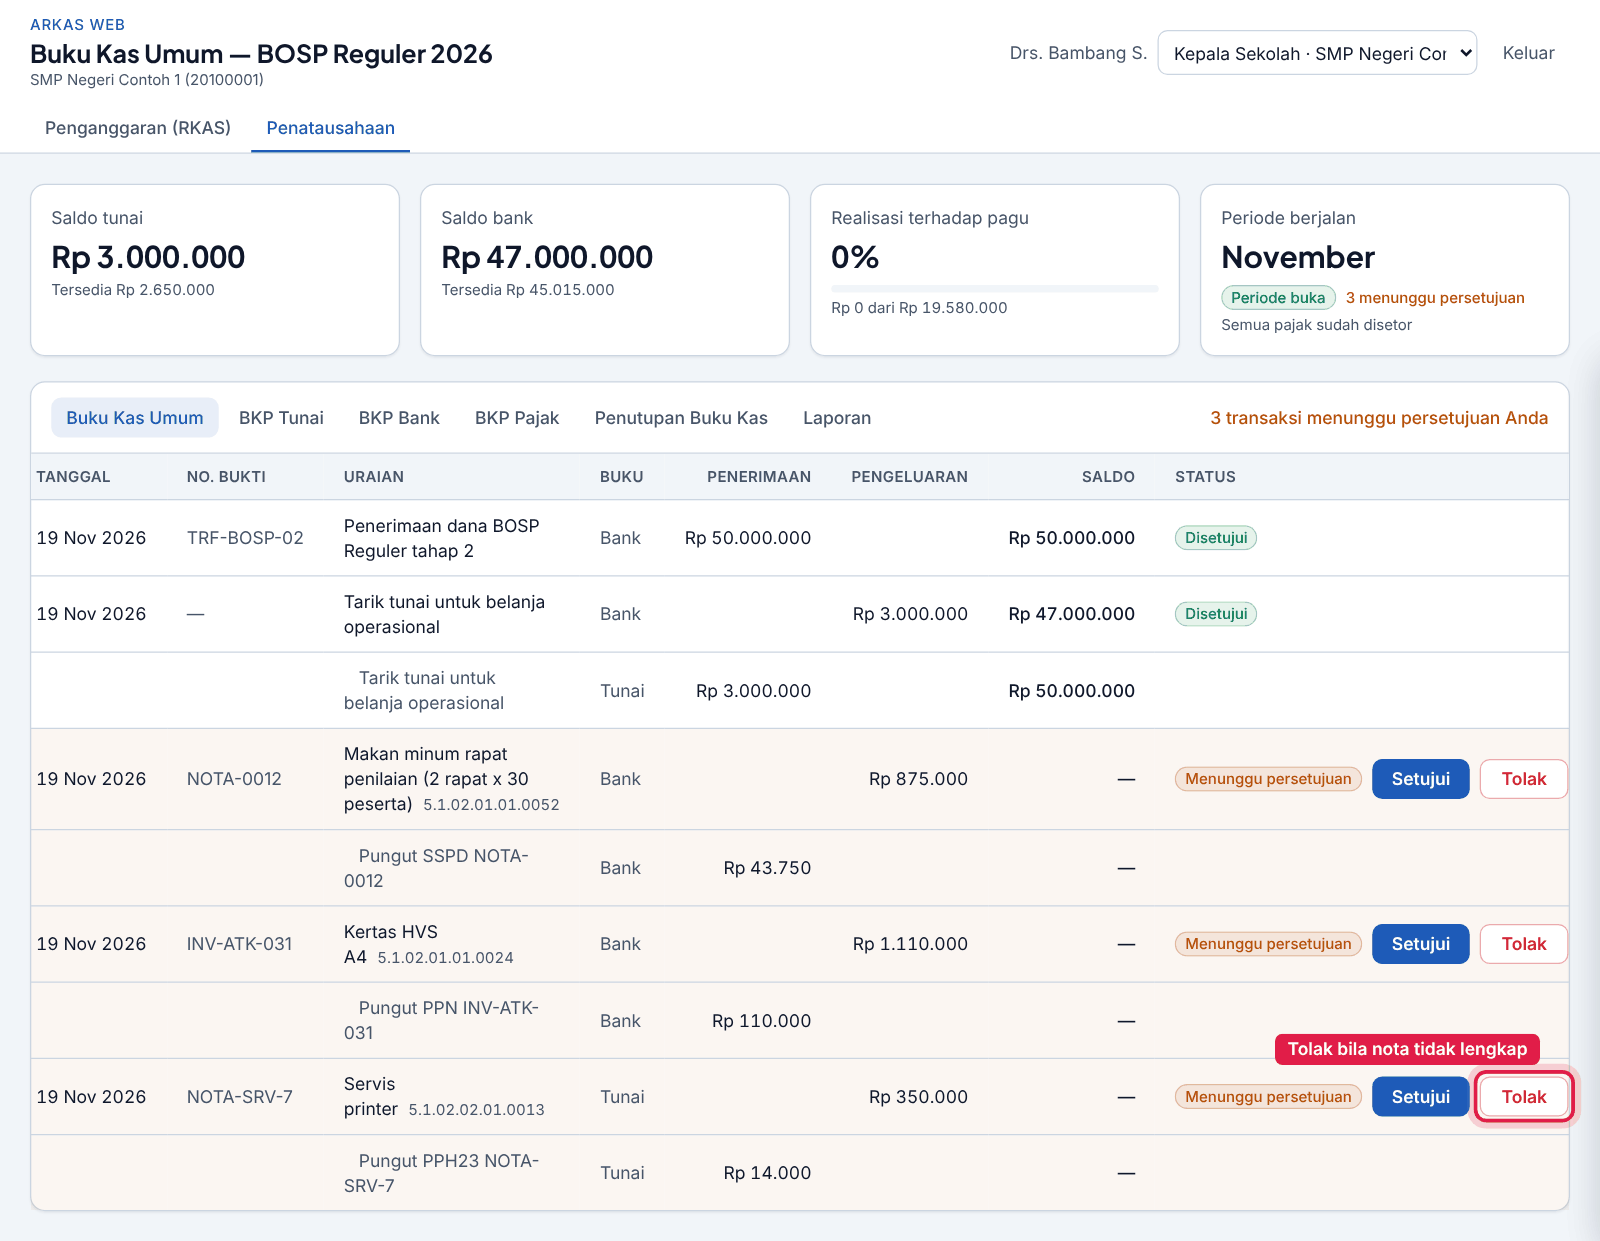
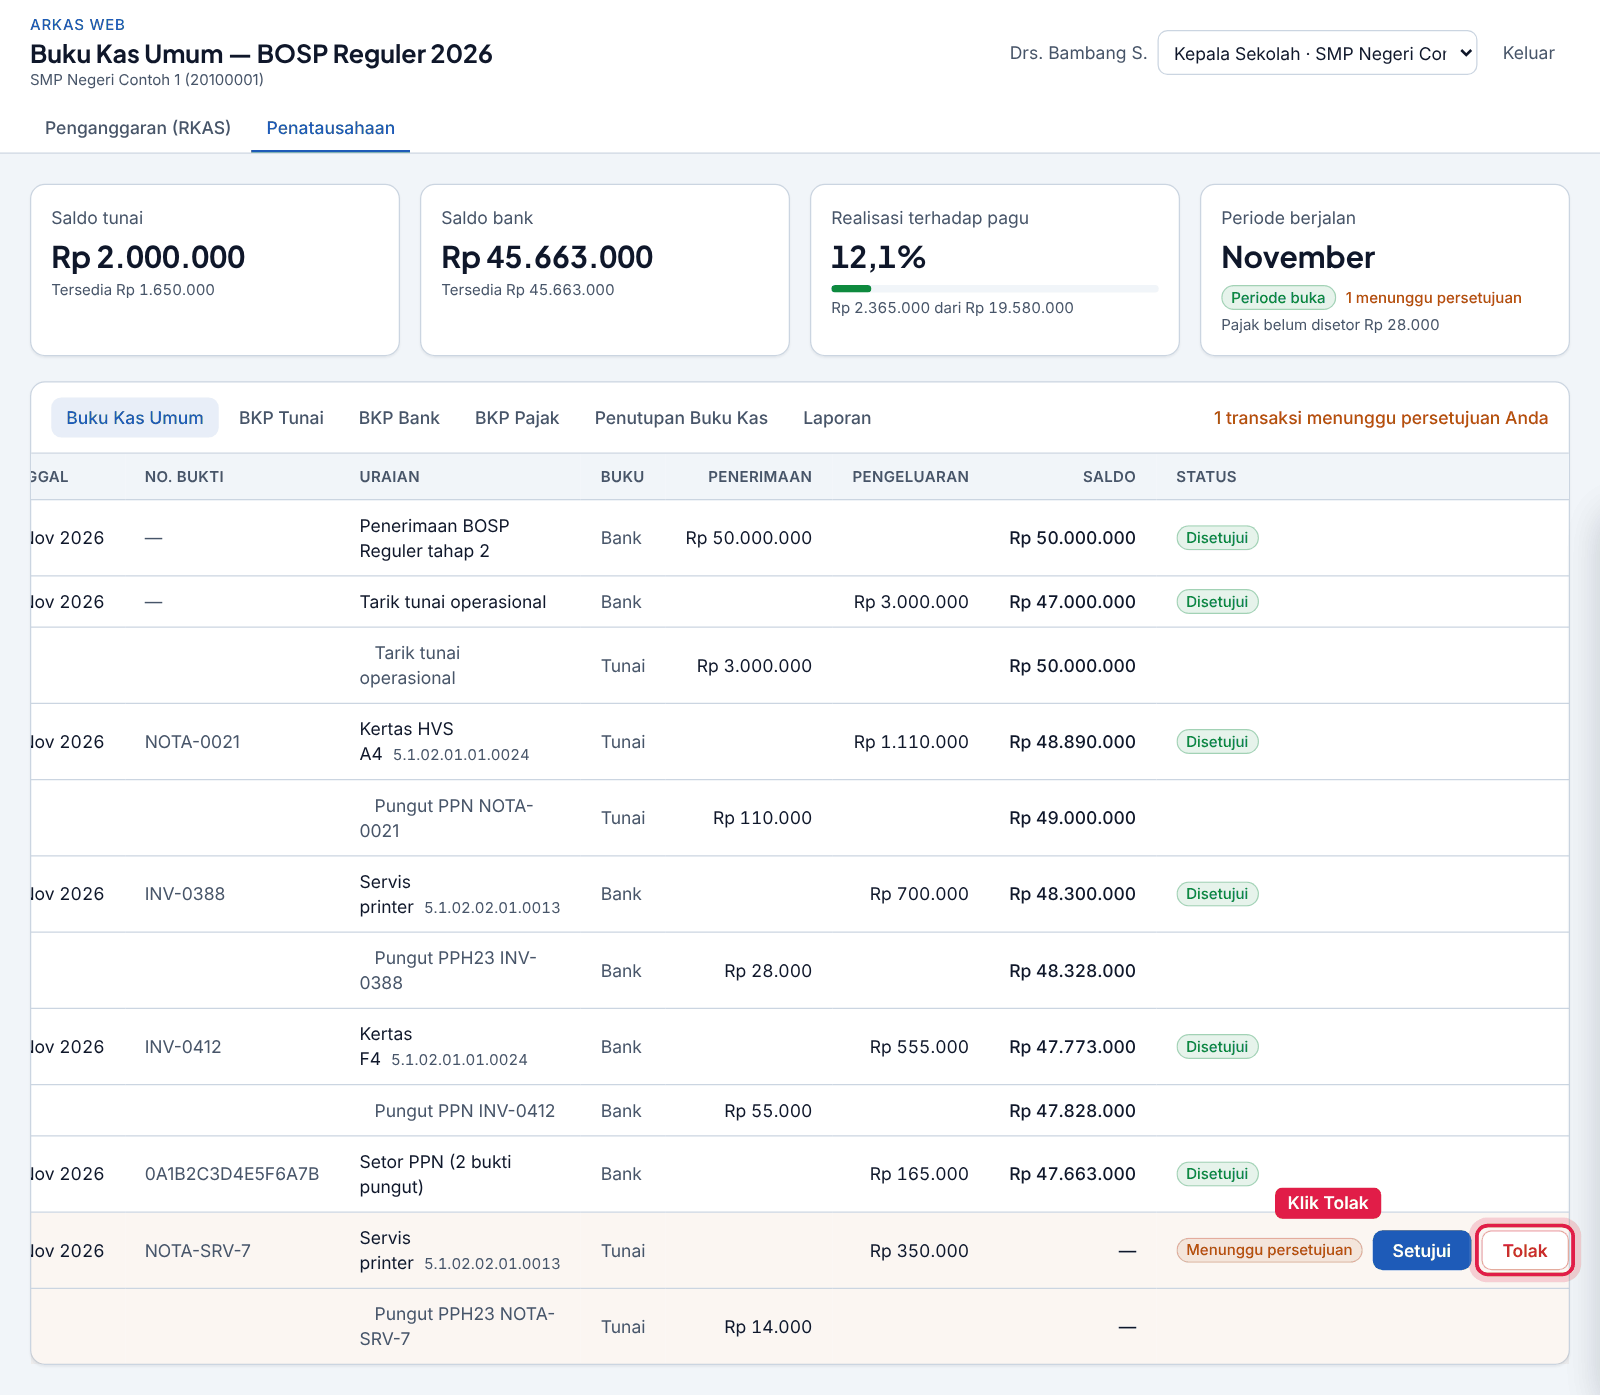
Bendahara: daftar transaksi ditolak beserta alasan dan tombol Catat ulang
- GET /api/v1/sekolah/{npsn}/bku/ditolak: transaksi DITOLAK pada periode
  yang masih BUKA (terbaru dulu, maks. 50) beserta alasan penolakan
- Web: panel merah di atas Buku Kas Umum untuk Bendahara (dengan tombol
  Catat ulang yang membuka formulir sesuai jenis) dan Kepala Sekolah (lihat saja)
- Uji e2e: penolakan tampil di daftar ditolak dan tidak masuk BKU
- Tangkapan layar tutorial diperbarui (k06, k06b, b12, b12b)

Claude-Session: https://claude.ai/code/session_01GnPCVBXFT96Yhb8TEvAGwA

diff --git a/arkas-web/apps/web/components/panel-ditolak.tsx b/arkas-web/apps/web/components/panel-ditolak.tsx
@@ -1,0 +1,41 @@
+'use client';
+import type { TransaksiDitolakDto } from '@arkas/kontrak';
+import { rupiah, tanggal } from '@/lib/format';
+import { Tombol } from './ui';
+
+const NAMA: Record<TransaksiDitolakDto['jenis'], string> = {
+  PENERIMAAN: 'Penerimaan', TARIK_TUNAI: 'Tarik tunai', SETOR_TUNAI: 'Setor tunai', BELANJA: 'Belanja', SETOR_PAJAK: 'Setor pajak',
+};
+
+/**
+ * Transaksi yang ditolak Kepala Sekolah (periode masih buka). Tidak masuk BKU dan tidak menggerakkan saldo;
+ * Bendahara membaca alasannya lalu mencatat ulang dengan data yang benar.
+ */
+export function PanelDitolak({ data, onCatatUlang, untukBendahara = true }: { data: TransaksiDitolakDto[]; onCatatUlang?: (t: TransaksiDitolakDto) => void; untukBendahara?: boolean }) {
+  if (!data.length) return null;
+  return (
+    <section role="alert" aria-label="Transaksi ditolak" className="rounded-card border border-danger/40 bg-danger/5">
+      <div className="border-b border-danger/20 px-4 py-3">
+        <p className="text-sm font-semibold text-danger">{data.length} transaksi ditolak Kepala Sekolah</p>
+        <p className="text-sm text-muted">Transaksi ini tidak masuk Buku Kas Umum dan tidak mengubah saldo. {untukBendahara ? 'Baca alasannya, perbaiki, lalu catat ulang.' : 'Bendahara melihat alasan yang sama untuk diperbaiki dan dicatat ulang.'}</p>
+      </div>
+      <ul className="divide-y divide-danger/15">
+        {data.map((t) => (
+          <li key={t.id} className="flex flex-wrap items-start justify-between gap-3 px-4 py-3">
+            <div className="min-w-0 text-sm">
+              <p className="font-medium text-ink">
+                {NAMA[t.jenis] ?? t.jenis} · {t.uraian}
+                <span className="angka ml-2 text-muted">{rupiah(t.nilaiBruto)}</span>
+              </p>
+              <p className="text-xs text-muted">
+                {tanggal(t.tanggal)}{t.noBukti && <> · <span className="angka">{t.noBukti}</span></>}{t.namaToko && <> · {t.namaToko}</>}
+              </p>
+              <p className="mt-1 text-ink"><span className="font-semibold text-danger">Alasan:</span> {t.alasanTolak ?? '—'}</p>
+            </div>
+            {onCatatUlang && <Tombol varian="sekunder" className="h-9" onClick={() => onCatatUlang(t)}>Catat ulang</Tombol>}
+          </li>
+        ))}
+      </ul>
+    </section>
+  );
+}

diff --git a/arkas-web/apps/web/app/sekolah/[npsn]/penatausahaan/bku/halaman-bku.tsx b/arkas-web/apps/web/app/sekolah/[npsn]/penatausahaan/bku/halaman-bku.tsx
@@ -10,8 +10,9 @@ import { WizardBelanja } from '@/components/wizard-belanja';
 import { PanelPajak } from '@/components/panel-pajak';
 import { PanelPenutupan } from '@/components/panel-penutupan';
 import { PanelLaporan } from '@/components/panel-laporan';
+import { PanelDitolak } from '@/components/panel-ditolak';
 import { GalatApi } from '@/lib/api';
-import { Buku, useBku, usePutuskan, useRingkasan } from '@/lib/hooks';
+import { Buku, useBku, useDitolak, usePutuskan, useRingkasan } from '@/lib/hooks';
 
 const TAB = [{ id: undefined, label: 'Buku Kas Umum' }, { id: 'TUNAI', label: 'BKP Tunai' }, { id: 'BANK', label: 'BKP Bank' }, { id: 'PAJAK', label: 'BKP Pajak' }, { id: 'TUTUP', label: 'Penutupan Buku Kas' }, { id: 'LAPORAN', label: 'Laporan' }] as const;
 
@@ -29,6 +30,7 @@ function IsiBku({ npsn, tahun, me }: { npsn: string; tahun: number; me: MeDto })
   const ringkasan = useRingkasan(buku);
   const bku = useBku(buku, tab === 'TUNAI' || tab === 'BANK' ? tab : undefined);
   const putuskan = usePutuskan(buku);
+  const ditolak = useDitolak(buku, peran === 'BENDAHARA' || peran === 'KEPSEK');
   const galat = [ringkasan.error, bku.error, putuskan.error].find((e) => e instanceof GalatApi) as GalatApi | undefined;
 
   function onPutuskan(id: string, aksi: 'setujui' | 'tolak') {
@@ -50,6 +52,14 @@ function IsiBku({ npsn, tahun, me }: { npsn: string; tahun: number; me: MeDto })
         {galat && <Spanduk nada="bahaya" judul={galat.problem.detail ?? galat.problem.title}>Kode: {galat.problem.kode}</Spanduk>}
 
         <Ringkasan r={ringkasan.data} />
+
+        {(peran === 'BENDAHARA' || peran === 'KEPSEK') && (
+          <PanelDitolak data={ditolak.data ?? []} untukBendahara={peran === 'BENDAHARA'} onCatatUlang={peran === 'BENDAHARA' && ringkasan.data?.periodeBerjalan?.status === 'BUKA' ? (t) => {
+            if (t.jenis === 'BELANJA') setWizard(true);
+            else if (t.jenis === 'SETOR_PAJAK') setTab('PAJAK');
+            else setMutasi({ jenis: t.jenis, nilai: t.nilaiBruto });
+          } : undefined} />
+        )}
 
         <Kartu>
           <div className="flex flex-wrap items-center justify-between gap-3 border-b border-line px-4 py-3">

diff --git a/arkas-web/apps/svc-penatausahaan/src/penatausahaan/penatausahaan.repo.ts b/arkas-web/apps/svc-penatausahaan/src/penatausahaan/penatausahaan.repo.ts
@@ -1,7 +1,7 @@
 import type { PoolClient } from 'pg';
 import { AturanPajakRekening, JenisPajak, pilihTarifEfektif } from '@arkas/aturan';
 import type {
-  BarisBkpPajakDto, PajakDto, BarisBkuDto, BarisRkasDto, ItemTransaksiDto, RincianPajakDto, RingkasanBukuDto, TransaksiDto,
+  BarisBkpPajakDto, PajakDto, BarisBkuDto, BarisRkasDto, ItemTransaksiDto, RincianPajakDto, RingkasanBukuDto, TransaksiDitolakDto, TransaksiDto,
 } from '@arkas/kontrak';
 
 /** Repository SQL db_tatausaha. Semua fungsi menerima `tx` dari DbContextService sehingga RLS berlaku. */
@@ -162,6 +162,22 @@ export async function putuskan(
     `UPDATE tatausaha.transaksi SET status = $2, diputuskan_oleh = $3, diputuskan_at = now(), alasan_tolak = $4 WHERE id = $1`,
     [id, status, oleh, alasan],
   );
+}
+
+/** Transaksi DITOLAK pada periode yang masih BUKA (yang sudah ditutup tidak bisa ditindaklanjuti lagi), terbaru dulu. */
+export async function daftarDitolak(tx: PoolClient, b: Buku): Promise<TransaksiDitolakDto[]> {
+  const r = await tx.query<{ id: string; jenis: TransaksiDitolakDto['jenis']; tanggal: Date; no_bukti: string | null; uraian: string;
+    nama_toko: string | null; nilai_bruto: string; alasan_tolak: string | null; diputuskan_at: Date | null }>(
+    `SELECT t.id, t.jenis, t.tanggal, t.no_bukti, t.uraian, t.nama_toko, t.nilai_bruto, t.alasan_tolak, t.diputuskan_at
+     FROM tatausaha.transaksi t JOIN tatausaha.periode p ON p.id = t.periode_id
+     WHERE t.npsn = $1 AND t.tahun = $2 AND t.sumber_dana_kode = $3 AND t.status = 'DITOLAK' AND p.status = 'BUKA'
+     ORDER BY t.diputuskan_at DESC NULLS LAST, t.id LIMIT 50`,
+    [b.npsn, b.tahun, b.sumberDanaKode],
+  );
+  return r.rows.map((x) => ({
+    id: x.id, jenis: x.jenis, tanggal: tgl(x.tanggal), noBukti: x.no_bukti, uraian: x.uraian, namaToko: x.nama_toko,
+    nilaiBruto: n(x.nilai_bruto), alasanTolak: x.alasan_tolak, diputuskanAt: x.diputuskan_at?.toISOString() ?? null,
+  }));
 }
 
 /** BKU dengan saldo berjalan (hanya baris DISETUJUI yang menggerakkan saldo); filter bulan diterapkan setelah saldo dihitung. */

diff --git a/arkas-web/apps/web/lib/hooks.ts b/arkas-web/apps/web/lib/hooks.ts
@@ -1,6 +1,6 @@
 'use client';
 import { useMutation, useQuery, useQueryClient } from '@tanstack/react-query';
-import type { BarisBkuDto, BarisRkasDto, BuatTransaksiInput, RingkasanBukuDto, TransaksiDto } from '@arkas/kontrak';
+import type { BarisBkuDto, BarisRkasDto, BuatTransaksiInput, RingkasanBukuDto, TransaksiDitolakDto, TransaksiDto } from '@arkas/kontrak';
 import type { AjukanTutupInput, BarisBkpPajakDto, DetailPeriodeDto, PajakDto, PeriodeDto, SetorPajakInput } from '@arkas/kontrak';
 import type { BarisKertasKerjaInput, DetailKertasKerjaDto, KertasKerjaDto, KomponenDto } from '@arkas/kontrak';
 import { api, kunciIdempoten } from './api';
@@ -16,6 +16,9 @@ export function useRingkasan(b: Buku) {
 }
 export function useBku(b: Buku, buku?: 'TUNAI' | 'BANK') {
   return useQuery({ queryKey: [...kunciBuku(b), 'bku', buku ?? 'SEMUA'], queryFn: async () => (await api<{ data: BarisBkuDto[] }>(`/sekolah/${b.npsn}/bku?${qs(b, { buku })}`)).data.data });
+}
+export function useDitolak(b: Buku, aktif = true) {
+  return useQuery({ queryKey: [...kunciBuku(b), 'ditolak'], enabled: aktif, queryFn: async () => (await api<{ data: TransaksiDitolakDto[] }>(`/sekolah/${b.npsn}/bku/ditolak?${qs(b)}`)).data.data });
 }
 export function useRkas(b: Buku, aktif = true) {
   return useQuery({ queryKey: [...kunciBuku(b), 'rkas'], enabled: aktif, queryFn: async () => (await api<{ data: BarisRkasDto[] }>(`/sekolah/${b.npsn}/bku/rkas?${qs(b)}`)).data.data });

diff --git a/arkas-web/apps/svc-penatausahaan/src/penatausahaan/penatausahaan.service.ts b/arkas-web/apps/svc-penatausahaan/src/penatausahaan/penatausahaan.service.ts
@@ -3,7 +3,7 @@ import { createHash } from 'node:crypto';
 import { AturanError, cekPemisahanTugas, hitungPajak, HasilPajak, keRupiah, keSen, transisiTransaksi, validasiSetorPajak } from '@arkas/aturan';
 import { DbContextService, GalatHttp, RequestContext, tulisOutbox } from '@arkas/common-ms';
 import {
-  BarisBkpPajakDto, BarisBkuDto, BarisRkasDto, BuatTransaksiInput, FilterBuku, FilterPajak, PajakDto, RingkasanBukuDto,
+  BarisBkpPajakDto, BarisBkuDto, BarisRkasDto, BuatTransaksiInput, FilterBuku, FilterPajak, PajakDto, RingkasanBukuDto, TransaksiDitolakDto,
   SetorPajakInput, SimulasiPajakInput, TOPIK,
   TransaksiDisetujuiData, TransaksiDto,
 } from '@arkas/kontrak';
@@ -223,6 +223,10 @@ export class PenatausahaanService {
 
   bku(ctx: RequestContext, npsn: string, f: FilterBuku & { buku?: 'TUNAI' | 'BANK' }): Promise<BarisBkuDto[]> {
     return this.db.run(ctx, (tx) => repo.daftarBku(tx, { npsn, tahun: f.tahun, sumberDanaKode: f.sumberDanaKode }, f.bulan, f.buku));
+  }
+
+  ditolak(ctx: RequestContext, npsn: string, f: FilterBuku): Promise<TransaksiDitolakDto[]> {
+    return this.db.run(ctx, (tx) => repo.daftarDitolak(tx, { npsn, tahun: f.tahun, sumberDanaKode: f.sumberDanaKode }));
   }
 
   rkas(ctx: RequestContext, npsn: string, f: FilterBuku): Promise<BarisRkasDto[]> {

diff --git a/arkas-web/apps/svc-penatausahaan/test/penatausahaan.e2e.spec.ts b/arkas-web/apps/svc-penatausahaan/test/penatausahaan.e2e.spec.ts
@@ -328,6 +328,12 @@ describe('alur SK-03: RKAS disahkan -> belanja -> persetujuan -> TransaksiDisetu
     expect(t.status).toBe(200);
     expect(t.body).toMatchObject({ status: 'DITOLAK', alasanTolak: 'Nota belum lengkap' });
     expect((await rkas()).find((b) => b.barisId === BARIS.servis)!.sisa).toBe(1_000_000);
+    // Bendahara melihat penolakan beserta alasannya (tidak masuk BKU)
+    const d = await http.get(`/api/v1/sekolah/${NPSN}/bku/ditolak`).query({ tahun: TAHUN, sumberDanaKode: SD }).set(await auth('BENDAHARA', BENDAHARA, NPSN));
+    expect(d.status).toBe(200);
+    expect(d.body.data).toContainEqual(expect.objectContaining({ id: r.body.id, jenis: 'BELANJA', noBukti: 'INV-88', nilaiBruto: 500_000, alasanTolak: 'Nota belum lengkap' }));
+    const bku = await http.get(`/api/v1/sekolah/${NPSN}/bku`).query({ tahun: TAHUN, sumberDanaKode: SD }).set(await auth('BENDAHARA', BENDAHARA, NPSN));
+    expect(bku.body.data.some((x: { transaksiId: string }) => x.transaksiId === r.body.id)).toBe(false);
   });
 
   it('konkurensi: dua belanja bersamaan pada baris yang sama tidak bisa melampaui anggaran', async () => {

diff --git a/arkas-web/packages/kontrak/src/penatausahaan.ts b/arkas-web/packages/kontrak/src/penatausahaan.ts
@@ -78,6 +78,11 @@ export interface TransaksiDto {
   dibuatOleh: string; dibuatAt: string; diputuskanOleh: string | null; diputuskanAt: string | null; alasanTolak: string | null;
   versi: number; items: ItemTransaksiDto[]; pajak: RincianPajakDto[];
 }
+/** Transaksi yang ditolak Kepala Sekolah pada periode yang masih buka — untuk ditindaklanjuti Bendahara. */
+export interface TransaksiDitolakDto {
+  id: string; jenis: JenisTransaksi; tanggal: string; noBukti: string | null; uraian: string; namaToko: string | null;
+  nilaiBruto: number; alasanTolak: string | null; diputuskanAt: string | null;
+}
 export interface BarisBkuDto {
   transaksiId: string; tanggal: string; noBukti: string | null; uraian: string; buku: 'TUNAI' | 'BANK';
   kodeRekening: string | null; penerimaan: number; pengeluaran: number; status: StatusTransaksi; saldo: number | null;

diff --git a/arkas-web/apps/svc-penatausahaan/src/penatausahaan/bku.controller.ts b/arkas-web/apps/svc-penatausahaan/src/penatausahaan/bku.controller.ts
@@ -25,6 +25,12 @@ export class BkuController {
     return this.svc.ringkasan(ctx, npsn, f);
   }
 
+  /** Transaksi yang ditolak Kepala Sekolah pada periode yang masih buka, beserta alasannya. */
+  @Get('ditolak')
+  async ditolak(@Ctx() ctx: RequestContext, @Param('npsn', new ZodPipe(Npsn)) npsn: string, @Query(new ZodPipe(FilterBuku)) f: FilterBuku) {
+    return { data: await this.svc.ditolak(ctx, npsn, f) };
+  }
+
   /** Baris RKAS yang disahkan (proyeksi lokal) dengan realisasi & sisa — sumber AccountCodePicker Langkah 2. */
   @Get('rkas')
   async rkas(@Ctx() ctx: RequestContext, @Param('npsn', new ZodPipe(Npsn)) npsn: string, @Query(new ZodPipe(FilterBuku)) f: FilterBuku) {
